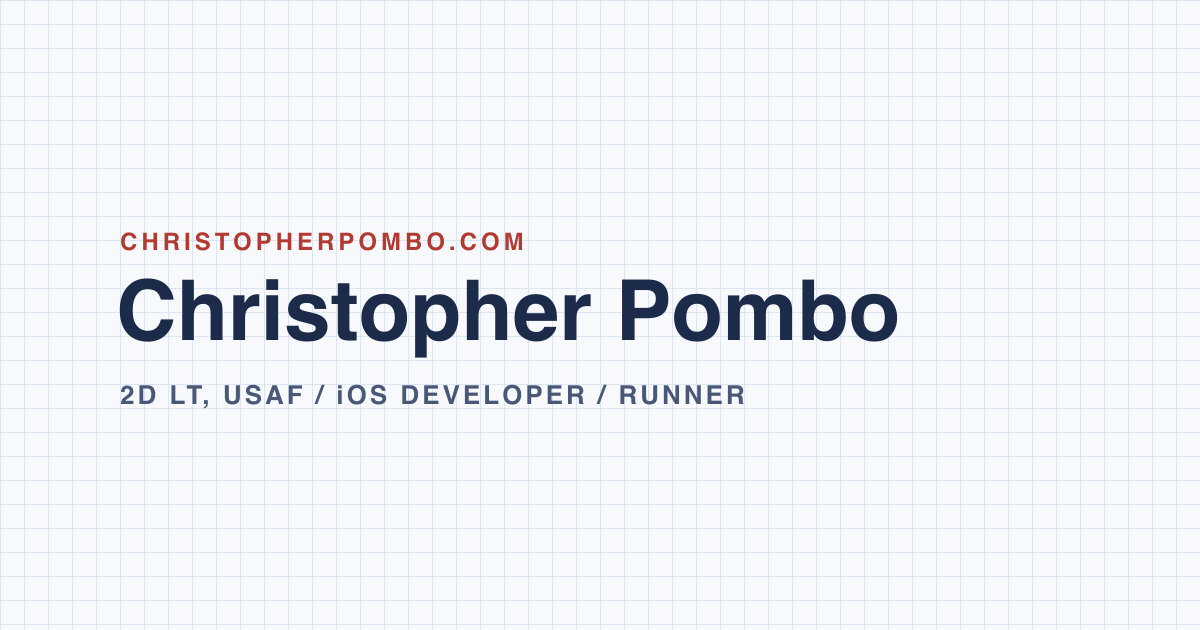
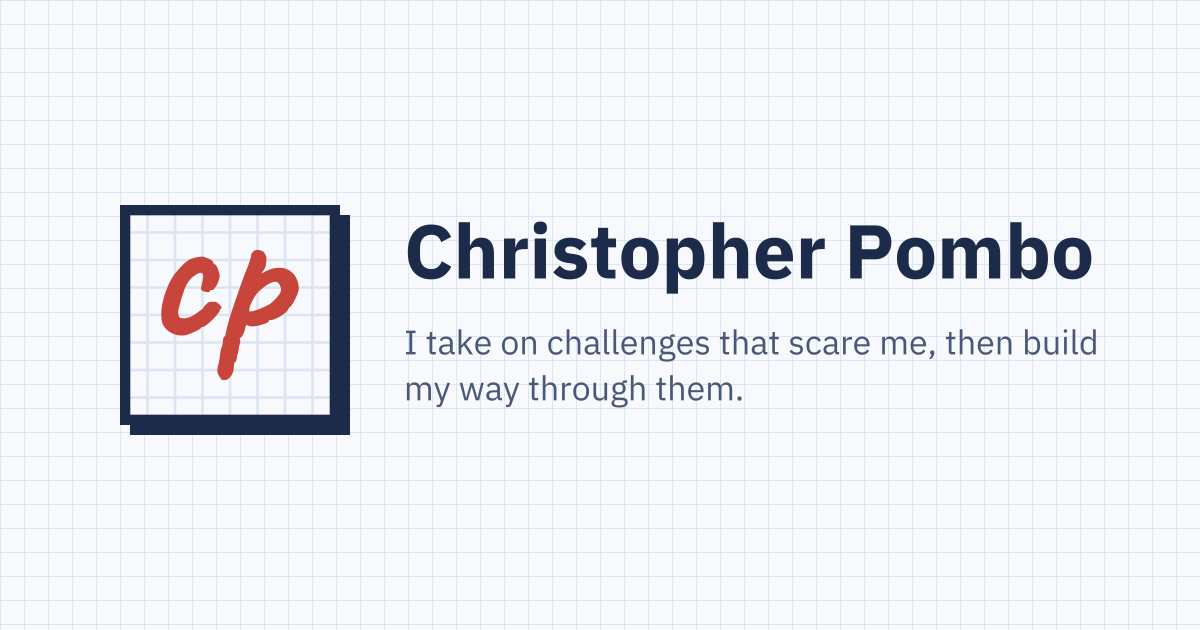
New brand mark: handwritten red "cp" on a graph-paper tile
Header gets a 32px mark (public/mark.svg) beside the name; both link
Home, and the image carries the "Christopher Pombo" alt text while the
visible name is aria-hidden so screen readers don't hear it twice.

generate-brand-assets now builds every asset from the mark: favicon.svg
and .ico (no grid, 4-unit border that lands on whole pixels at 16 and
32px, "cp" filling the tile), a 180px apple-touch-icon with the grid,
and an OG image with the mark, name, and tagline.

Text is converted to outlines with opentype.js (new dev dependency)
instead of embedded @font-face: sharp's SVG renderer ignores embedded
fonts, which is why earlier OG images fell back to a system sans.
opentype.js's own toPathData() also emits NaN for some curves, so the
script serializes paths itself.

Changed region(s): [[0.0925, 0.3016, 0.925, 0.6937]]

diff --git a/CLAUDE.md b/CLAUDE.md
@@ -29,6 +29,10 @@ vanilla CSS, zero client-side JS unless a page truly needs it.
 - Lists of facts are ledgers: label/value rows separated by thin grid-blue
   (#DCE5F2) rules.
 - App screenshots sit in navy iPhone-style bezels (`.device`).
+- Brand mark: red (#C8453B) Caveat 700 "cp" on a navy-bordered graph-paper
+  tile (public/mark.svg, used in the header). Favicon, touch icon, and OG
+  image all come from `npm run generate-assets` — edit the script, not the
+  files.
 - Layout: max-width ~1100px, centered. Everything must work at phone width.
 
 ## Content rules
